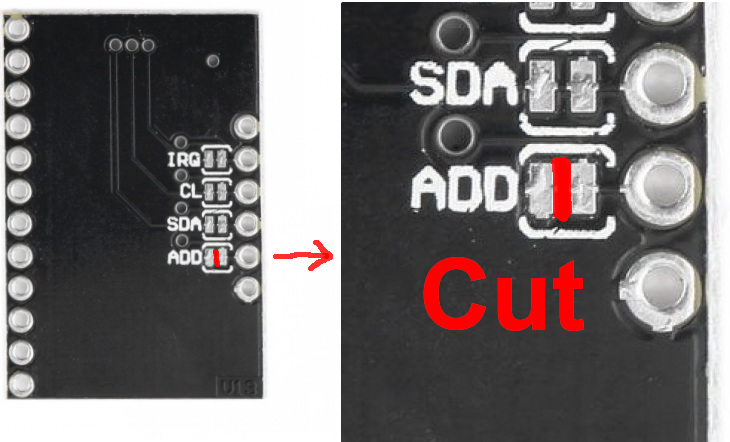
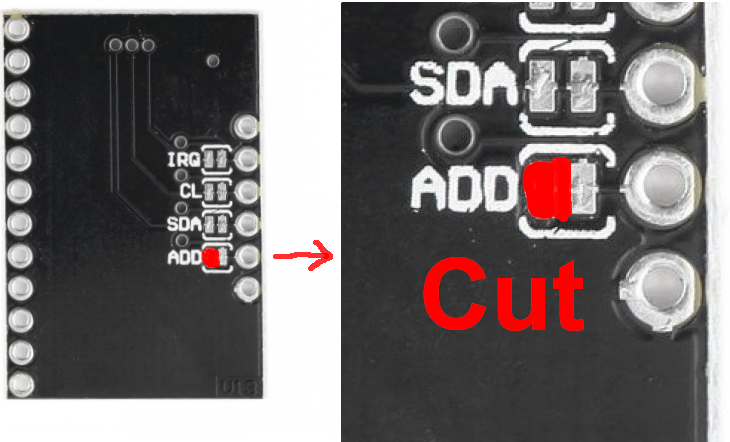
Update guide for Diva Pico+

Changed region(s): [[0.6932, 0.3529, 0.7836, 0.5], [0.2712, 0.5588, 0.3014, 0.6176]]

diff --git a/README.md b/README.md
@@ -70,28 +70,26 @@ Many DIY enthusiasts commonly make certain mistakes during the building process.
   Be aware that desoldering and soldering large SMD components is a challenging task. It carries the risk of damaging the component or the PCB board. Patience and caution are crucial. Look at the schematics and PCB design files and ask help from community first. Questioning the integrity of these components should be your last resort.
 
 ### PCB
-* Choose a PCB vendor (such as JLCPCB) and place an order with the gerber zip file (latest `Production\PCB\diva_main_xxx.zip`), regular FR-4 board, black color, thickness is **1.6mm**.  
+* Choose a PCB vendor (such as JLCPCB) and place an order with the gerber zip file (latest `Production\PCB\diva_xxx_xxx.zip`), regular FR-4 board, black color, thickness is **1.6mm**.  
   <img src="doc/pcb.jpg" width="60%">
 
-* 1x Rasberry Pico Pi Pico or pin-to-pin compatible clones.  
+* 1x Rasberry Pico Pi Pico or **pin-to-pin** compatible clones.  
   https://www.raspberrypi.com/products/raspberry-pi-pico  
   Sticking a thin scotch tape to avoid short-circuit is a good idea.  
   <img src="doc/some_tape.jpg" width="40%">
 
-* 16x WS2812B-4020 side-facing RGB LEDs for the slider.  
+* 16x WS2812B-4020 (32x for Diva Pico+) side-facing RGB LEDs for the slider.  
   https://www.lcsc.com/product-detail/Light-Emitting-Diodes-LED_Worldsemi-WS2812B-4020_C965557.html
-* 9x WS2812B-3528 RGB LEDs for the buttons.
-* 1x 0603 10ohm resistor (R3), or if you feel it's not challenging, go with SN74LV1T34DBVR (SOT-23-5) level shifter (U8), you only need either of them.
-  https://www.lcsc.com/product-detail/Buffer-Driver-Transceiver_Texas-Instruments-SN74LV1T34DBVR_C100024.html
+* 9x WS2812B-3528 RGB LEDs for Diva Pico buttons. For Diva Pico+, you need 17x WS2812B-3528 reverse mount RGB LEDs.
 
-* 2x MPR121 modules, there're many types in the market, choose ones like this.  
+* 2x MPR121 modules (3x for Diva Pico+), there're many types in the market, choose ones like this.  
   https://www.sparkfun.com/products/retired/9695  
-  Before solder MP121 module to the main PCB board, remember to use a knife to **cut (unshort) the tiny trace that connects ADDR to the GND**. Please be careful not to cut more than necessary.  
+  Before solder MP121 module to the main PCB board, remember to use a knife to **cut (unshort) the tiny trace that connects ADDR to the GND**. You can cut the red part as shown in the image. Please be careful not to cut more than necessary.  
   <img src="doc/mpr121_cut.png" width="40%">  
 
 * 8x 0603 1uF (0.1~1uF all fine) capacitors (C1 to C8), OPTIONAL, recommended.
 
-* 4x Kailh choc v1 switches, use heavy linear ones (dark yellow is the best, the force is around 70gf).  
+* 4x Kailh choc v1 switches, dark yellow is recommeded for its 70gf force.  
   <img src="doc/choc_v1.jpg" width="50%">
 
 * 2x Alps SKSTAAE010 tactile switches.
@@ -100,7 +98,7 @@ Many DIY enthusiasts commonly make certain mistakes during the building process.
 * 1x Omron B3F-4005 or B3F-4000 micro-switch.
   https://www.mouser.com/ProductDetail/Omron-Electronics/B3F-4000?qs=B3tblJ0Nlt8c5sbFRctxww%3D%3D
 
-* 3M 5423 or 5421 UHMW PE film tape, important for button feel. 5423 is better for its thickness.  
+* For Diva Pico only, 3M 5423 or 5421 UHMW PE film tape, important for button feel. 5423 is better for its thickness.  
   https://www.3m.com/3M/en_US/p/d/b40069119/
 
   You need to apply tapes to the contact surface of button to switch and button to base clamp.  
@@ -108,17 +106,23 @@ Many DIY enthusiasts commonly make certain mistakes during the building process.
   <img src="doc/3m_tape_1.jpg" width="25%">
   <img src="doc/3m_tape_2.jpg" width="25%">
 
-* 4x 2mm\*50mm (diameter\*length) steel rods for the button lever structure.
+
+* For Diva Pico only, 4x 2mm\*50mm (diameter\*length) steel rods for the button lever structure.
+
+* For Diva Pico+ only, 8x U-shape 2U stabilizer steel wires, you can also harvest them from regular 2U MX stabilizers. I invented this structure originally in my Voltex Pico project, checkout Voltex Pico repository for more details.
+
+* For Diva Pico+ only, 4x 3mm\*5mm\*10mm regular springs for increasing the button force.
 
 ### Light Guide Panel
-* Find a service to cut a light guide panel or a frosted acrylic panel. It's a perfect rectangle, the size is 240mm*42mm, 1.8mm to 2.0mm thickness, so you don't need a CAD file.  
-  <img src="doc/lgp.jpg" width="60%">
+* Find a service to cut a light guide panel or a frosted acrylic panel. It's a perfect rectangle, 1.8mm to 2.0mm thickness
+  * For Diva Pico, the size is 240mm\*42mm.
+  * For Diva Pico+, the size is 329mm\*47mm.
 * This is what a decent light guide panel looks like.  
   <img src="doc/good_lgp.png" width="80%">
 
 ### 3D Printing
 * You might need a Bambu 3D printer:
-  * Parts are designed to perfectly fit in its 256mm*256mm print bed.
+  *  For Diva Pico, a 256\*256mm bed is fine; for Diva Pico+ you need a H2D-sized bed.
   * Its AMS system works great for multi-color printing.
 * Printing parameters  
   * PLA, PETG, ABS are all OK.
@@ -126,10 +130,10 @@ Many DIY enthusiasts commonly make certain mistakes during the building process.
   * Layer height: 0.2mm
   * Support: Yes, always.
 
-* Base: `Production\3D\diva_pico_base.stl`.
-* Cover Base: `Production\3D\diva_pico_support.stl`.
-* Cover: `Production\3D\diva_pico_panel.3mf`, with multi-color support.
-* Buttons: `Production\3D\diva_pico_button_combo.3mf`, with multi-color support.  
+* Base: `Production\3D\diva_xxx_base.stl`.
+* Cover Base: `Production\3D\diva_xxx_support.stl`.
+* Cover: `Production\3D\diva_xxx_panel.3mf`, with multi-color support.
+* Buttons: `Production\3D\diva_xxx_button_combo.3mf`, with multi-color support.  
   Note that button components (the button body, the seat and the logos on it) are mixed in one file, you need to cherry-pick before printing.  
   <img src="doc/cherrypick.png" width="40%">
 
@@ -140,13 +144,15 @@ From top to bottom:
 * PCB
 * Base
 
-You need **6x M3*10mm regular screws** to fix all things.
+For Diva Pico, you need **6x M3*10mm regular screws** to fix all things. For Diva Pico+, you need **9x M3\*8mm** regular screws and **4x M2\*8mm** flat head screws.
 
-6x silicone anti-slip pads can be applied to the bottom side of the base to provide stability when playing.  
+Apply some 10mm\*2mm silicone anti-slip pads to the bottom side of the base to provide stability when playing.  
 
 #### Button dome choices
-* Go buy this 60mm dome buttons with 48mm diameter dome. I found this (only) one is perfect, its inner diameter is 46mm. You need to print the buttons according to what dome you get.  
-  <img src="doc/dome_button.jpg" width="40%">
+* Go buy 60mm dome buttons.
+  * For Diva Pico+, a regular 60mm arcade dome button is fine.
+  * For Diva Pico, you should get this specific one, its inner diameter is 46mm.  
+    <img src="doc/dome_button.jpg" width="40%">
 
 ### Firmware
 * UF2 file is in `Production\Firmware` folder.

diff --git a/README_CN.md b/README_CN.md
@@ -70,24 +70,22 @@ https://discord.gg/M8f2PPQFEA
   请记住，器件绝大部分情况下都是好的，问题可能在焊接上。更换器件会带来额外的风险，比如损坏器件或 PCB 板。耐心和谨慎是至关重要的。首先查看原理图和 PCB 设计文件，并向社区寻求帮助。怀疑器件问题应该是你的最后选择。
 
 ### PCB
-* 找个 PCB 供应商（比如 JLCPCB）下单，使用最新的 `Production\PCB\diva_main_xxx.zip` 文件，选择常规 FR-4 板材，黑色，厚度为 **1.6mm**。  
+* 找个 PCB 供应商（比如 JLCPCB）下单，使用最新的 `Production\PCB\diva_xxx_xxx.zip` 文件，选择常规 FR-4 板材，黑色，厚度为 **1.6mm**。  
   <img src="doc/pcb.jpg" width="60%">
-* 1x 树莓派 Pico 或兼容的克隆板。  
+* 1x 树莓派 Pico 或**引脚全兼容**的克隆板。  
   https://www.raspberrypi.com/products/raspberry-pi-pico  
   在接触点附近贴上一层薄薄的透明胶带以避免短路。  
   <img src="doc/some_tape.jpg" width="40%">
-* 16x WS2812B-4020 侧向发光 RGB LED 用于滑条。  
+* 16x WS2812B-4020 (Diva Pico+ 需要 32x) 侧向发光 RGB LED 用于滑条。  
   https://www.lcsc.com/product-detail/Light-Emitting-Diodes-LED_Worldsemi-WS2812B-4020_C965557.html
-* 9x WS2812B-3528 RGB LED 用于按钮。
-* 1x 0603 10 欧姆电阻（R3），或者如果你嫌它太简单了，可以使用 SN74LV1T34DBVR（SOT-23-5）电平转换器（U8）来代替。  
-  https://www.lcsc.com/product-detail/Buffer-Driver-Transceiver_Texas-Instruments-SN74LV1T34DBVR_C100024.html
-* 2x MPR121 模块，市面上有很多种，选择这种类型的。  
+* 9x WS2812B-3528 RGB LED 用于 Diva Pico 按钮。Diva Pico+ 则需要 17x WS2812B-3528 反贴安装 RGB LED。
+* 2x MPR121 模块 (Diva Pico+ 需要 3x)，市面上有很多种，选择这种类型的。  
   https://www.sparkfun.com/products/retired/9695  
-  在焊接 MPR121 模块到主 PCB 板之前，记得用小刀**切断 ADDR 和 GND 之间的微小连线**，注意绝对不要切过头。  
+  在焊接 MPR121 模块到主 PCB 板之前，记得用小刀**切断 ADDR 和 GND 之间的微小连线**，建议按照图片切掉红色部分，不要越界，注意绝对不要切过头。  
   <img src="doc/mpr121_cut.png" width="40%">
 
 * 8x 0603 1uF（0.1~1uF 都可以）电容（C1 到 C8），可选，但建议焊上。
-* 4x Kailh choc v1 机械轴，建议使用重线性轴（深黄色最好的，按压力约为 70gf）。
+* 4x Kailh choc v1 机械轴，建议使用深黄色，因为它按压力约为 70gf。  
   <img src="doc/choc_v1.jpg" width="50%">
 * 2x Alps SKSTAAE010 轻触开关。  
   https://tech.alpsalpine.com/e/products/detail/SKSTAAE010/
@@ -95,7 +93,7 @@ https://discord.gg/M8f2PPQFEA
 * 1x Omron B3F-4005 或 B3F-4000 微动开关。  
   https://www.mouser.com/ProductDetail/Omron-Electronics/B3F-4000?qs=B3tblJ0Nlt8c5sbFRctxww%3D%3D
 
-* 3M 5423 或 5421 UHMW PE 薄膜胶带，对于按钮手感很重要。5423 更厚一些。  
+* 仅对于 Diva Pico, 3M 5423 或 5421 UHMW PE 薄膜胶带，对于按钮手感很重要。5423 更厚一些。  
   https://www.3m.com/3M/en_US/p/d/b40069119/
 
   你需要将胶带贴在按钮到开关的接触面和按钮到底座夹紧处。  
@@ -103,17 +101,23 @@ https://discord.gg/M8f2PPQFEA
   <img src="doc/3m_tape_1.jpg" width="25%">
   <img src="doc/3m_tape_2.jpg" width="25%">
 
-* 4x 2mm\*50mm（直径\*长度）钢轴用于按钮杠杆结构。
+* 仅对于 Diva Pico, 4x 2mm\*50mm（直径\*长度）钢轴用于按钮杠杆结构。
+
+* 仅对于 Diva Pico+, 8x U 型 2U 卫星轴钢丝，你也可以从常规的 2U MX 卫星轴里拆。最早我是为了 Voltex Pico 项目独创了这个结构，更多细节可以在 Voltex Pico 仓库查看。
+
+* 仅对于 Diva Pico+, 4x 3mm\*5mm\*10mm 普通弹簧用于增加按钮按压力。
 
 ### 导光板
-* 找一个服务切割导光板或者磨砂亚克力板。它是一个完美的矩形，尺寸是 240mm*42mm，厚度为 1.8mm 到 2.0mm，所以你不需要 CAD 文件。  
-  <img src="doc/lgp.jpg" width="60%">
+* 找一个服务切割导光板或者磨砂亚克力板。它是一个完美的矩形，厚度为 1.8mm 到 2.0mm。
+  * Diva Pico 导光板尺寸是 240mm\*42mm。
+  * Diva Pico+ 导光板尺寸是 329mm\*47mm。
 * 一个好的导光板看上去是这样的。  
   <img src="doc/good_lgp.png" width="80%">
 
 ### 3D 打印
 * 你可能需要一个 Bambu 3D 打印机：
-  * 部件都是为了完美适配 256mm*256mm 的打印床。
+  * Diva Pico 需要 256mm*256mm 的打印床。
+  * Diva Pico+ 则需要 H2D 尺寸的打印床。
   * 它的 AMS 系统非常适合多色打印。
 * 打印参数
   * PLA, PETG, ABS 都可以。
@@ -121,10 +125,10 @@ https://discord.gg/M8f2PPQFEA
   * 打印层高：0.2mm
   * 支撑：需要。
 
-* 主体：`Production\3D\diva_pico_base.stl`。
-* 支撑：`Production\3D\diva_pico_support.stl`。
-* 盖子：`Production\3D\diva_pico_panel.3mf`，支持多色打印。
-* 按钮：`Production\3D\diva_pico_button_combo.3mf`，支持多色打印。  
+* 主体：`Production\3D\diva_xxx_base.stl`。
+* 支撑：`Production\3D\diva_xxx_support.stl`。
+* 盖子：`Production\3D\diva_xxx_panel.3mf`，支持多色打印。
+* 按钮：`Production\3D\diva_xxx_button_combo.3mf`，支持多色打印。  
   注意，按钮组件（按钮主体，按钮座和上面的图案）都混在一个文件里，你需要在打印前挑选秩组合。  
   <img src="doc/cherrypick.png" width="40%">
 
@@ -135,12 +139,14 @@ https://discord.gg/M8f2PPQFEA
 * PCB
 * 主体
 
-你需要 **6x M3*10mm 普通螺丝** 来固定所有东西。
+对于 Diva Pico 你需要 **6x M3*10mm 普通螺丝** 来固定所有东西。对于 Diva Pico+ 你需要 **9x M3\*8mm 普通螺丝** 和 **4x M2\*8mm 沉头螺丝** 。
 
-6x 硅胶防滑垫可以贴在底座的底部，以提供游玩时的稳定性。
+在底部使用一些 10mm\*2mm 的硅胶防滑垫，玩的时候更稳一些。
 
 #### 按钮圆顶
-* 购买这种 60mm 的圆顶游戏机按钮，内径 46mm。  
+* 购买 60mm 的圆顶游戏机按钮。
+  * 对于 Diva Pico+，普通的 60mm 圆顶游戏机按钮就可以。
+  * 对于 Diva Pico，你要买这个特定的按钮，它的内径是 46mm。
   <img src="doc/dome_button.jpg" width="40%">
 
 ### 固件